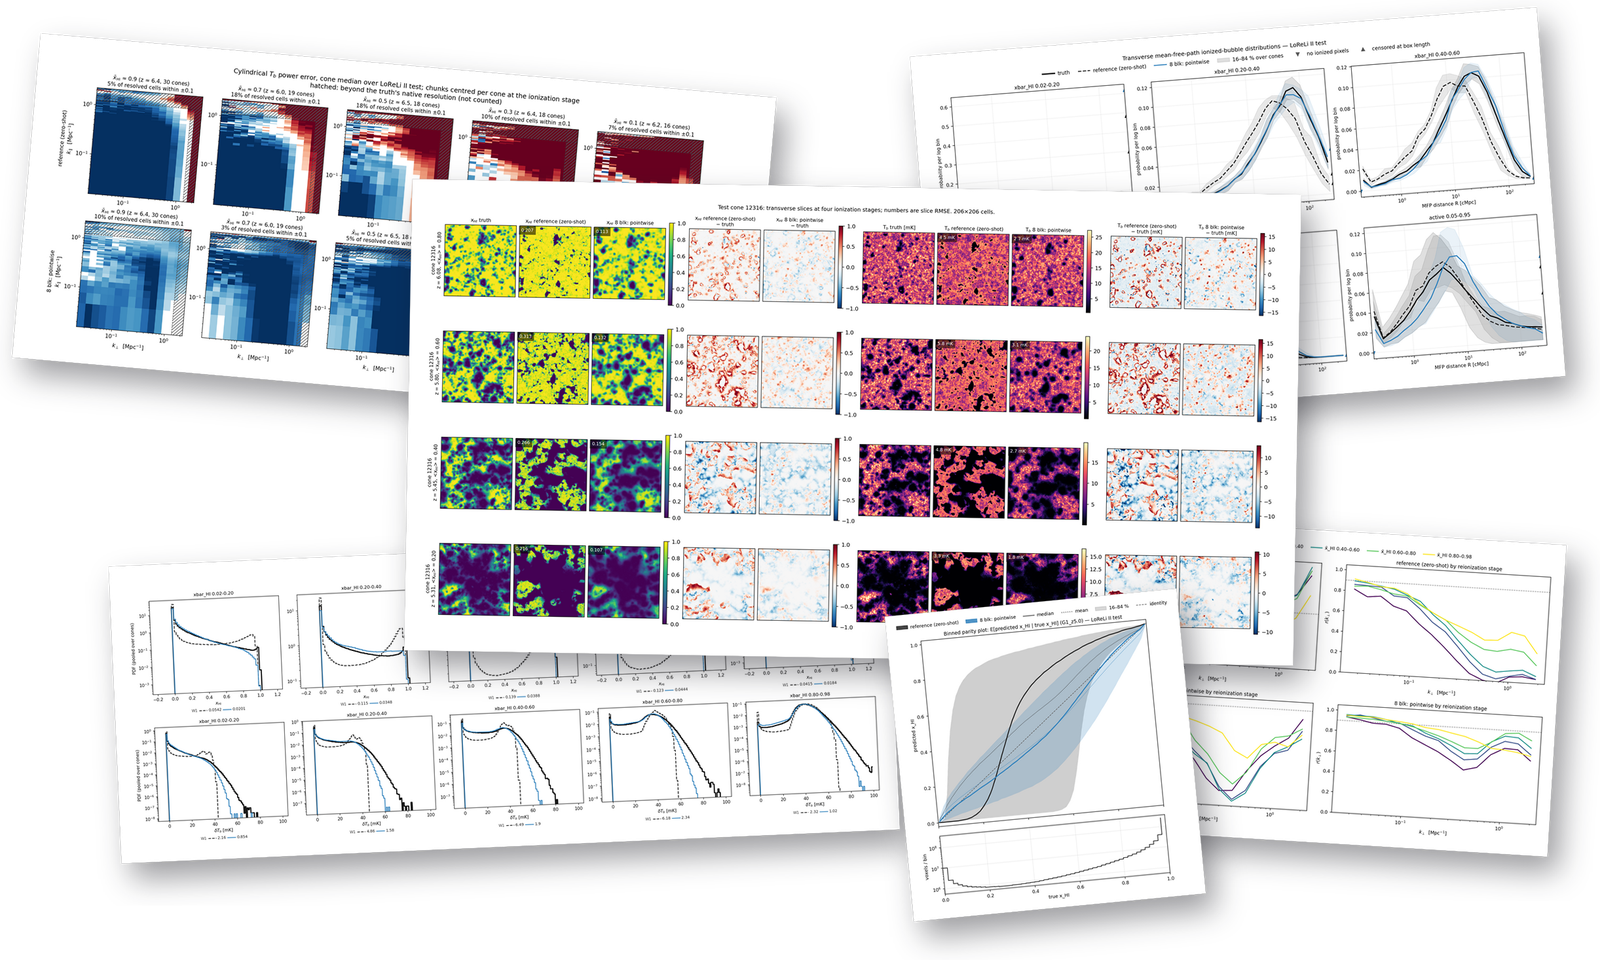
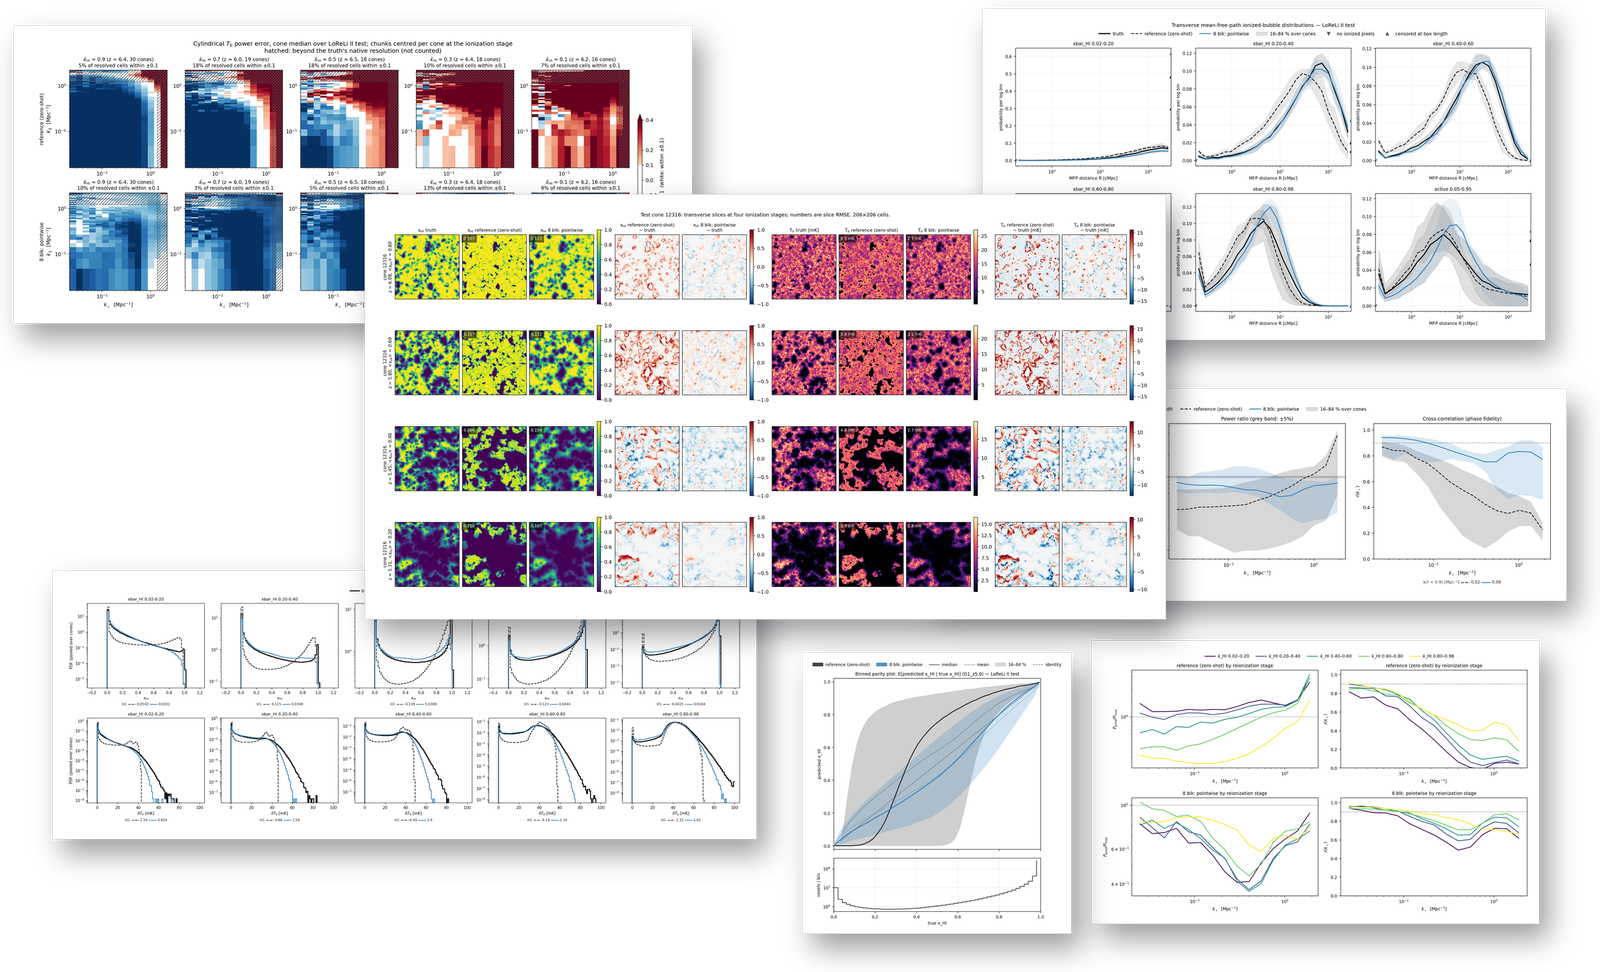
README collage: axis-aligned cards, add the power-spectrum overlay

diff --git a/docs/readme_collage.py b/docs/readme_collage.py
@@ -3,7 +3,7 @@
     python docs/readme_collage.py FIGURE_DIR [--out docs/collage.png]
 
 FIGURE_DIR holds the PNGs of an `eval21 plot all` run (the gallery page in FIGURE_DIR/gallery/).
-Cards are listed back to front; positions are fractions of the canvas, angles in degrees.
+Cards are listed back to front, axis-aligned (angle 0); positions are fractions of the canvas.
 Needs Pillow.
 """
 from __future__ import annotations
@@ -13,14 +13,15 @@ from pathlib import Path
 
 from PIL import Image, ImageDraw, ImageFilter
 
-CANVAS = (2800, 1750)
+CANVAS = (2800, 1800)
 #        file (glob, first match)          width  centre x  centre y  angle
-CARDS = [("cyl_error_tb.png",              1080,   0.28,     0.30,    -5.0),
-         ("bubble_size_distribution.png",   920,   0.74,     0.29,     4.5),
-         ("ps_stage_curves_tb.png",         720,   0.78,     0.70,    -3.5),
-         ("physical_pdfs.png",             1140,   0.34,     0.71,     2.5),
-         ("gallery/cone_*.png",            1300,   0.53,     0.47,    -1.0),
-         ("parity_overlay*.png",            430,   0.635,    0.76,     5.5)]
+CARDS = [("cyl_error_tb.png",              1060,   0.24,     0.24,     0.0),
+         ("bubble_size_distribution.png",   880,   0.77,     0.24,     0.0),
+         ("ps_overlay_tb.png",             1000,   0.76,     0.53,     0.0),
+         ("physical_pdfs.png",             1100,   0.27,     0.72,     0.0),
+         ("ps_stage_curves_tb.png",         700,   0.80,     0.79,     0.0),
+         ("gallery/cone_*.png",            1250,   0.48,     0.45,     0.0),
+         ("parity_overlay*.png",            420,   0.58,     0.80,     0.0)]
 
 PAPER_MARGIN = 0.022          # white border around each figure, fraction of the card width
 SHADOW_OFFSET = (16, 24)

diff --git a/README.md b/README.md
@@ -1,7 +1,7 @@
 # 21cmEVAL
 
 <p align="center">
-  <img src="docs/collage.png" alt="A spread of eval21 figures: cylindrical power error, slice gallery, bubble-size distributions, PDFs with W1, parity and power-ratio curves by reionization stage" width="100%">
+  <img src="docs/collage.png" alt="A spread of eval21 figures: cylindrical power error, slice gallery, bubble-size distributions, power spectrum and coherence, PDFs with W1, parity and power-ratio curves by reionization stage" width="100%">
 </p>
 
 End-to-end evaluation for 21cm field emulators. Point it at a model and a set
